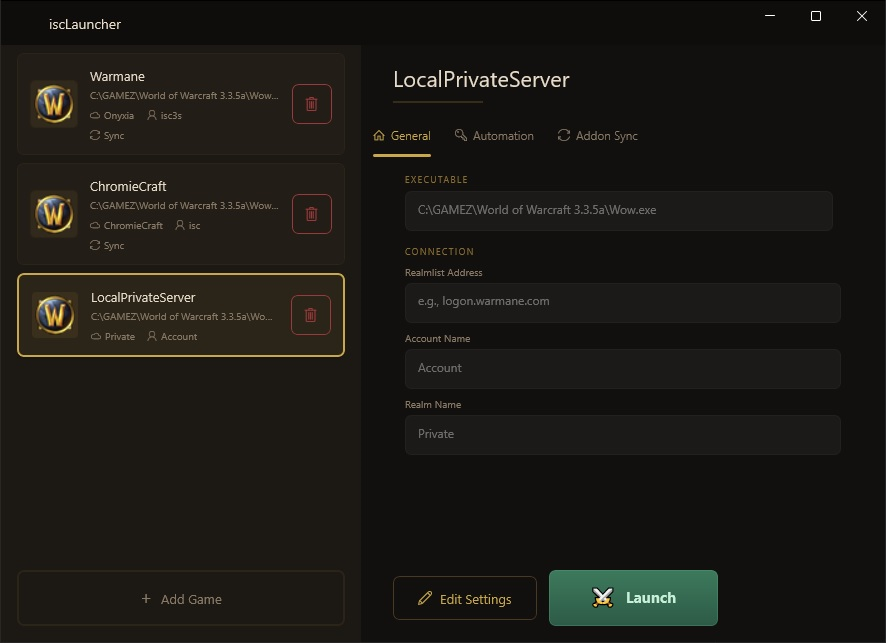
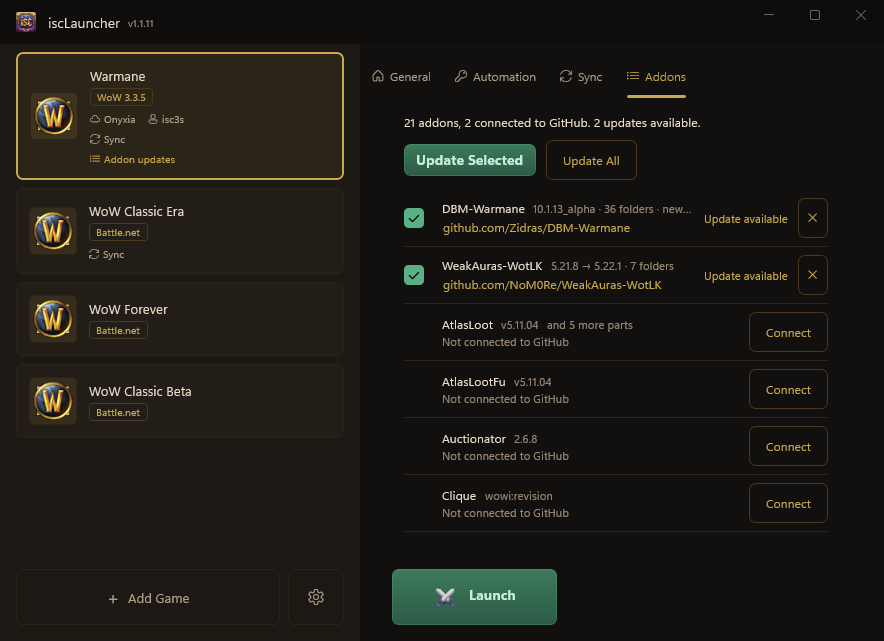
Shorten the README and update its screenshot

diff --git a/README.md b/README.md
@@ -10,88 +10,49 @@ A Windows launcher for World of Warcraft that keeps your addons and settings in 
 
 ## What it does
 
-**Private servers**
-- Keeps a library of WoW installs, each with its own server address, account and realm.
-- Writes `realmlist.wtf` and `WTF\Config.wtf` before every launch, so you never edit them by hand.
-- Logs you in: your password is stored in Windows Credential Manager and typed into the login screen once the game is ready. If typing fails, it's copied to the clipboard instead and cleared again after 30 seconds.
+- **Private servers:** sets the realmlist and realm before every launch, and logs you in with a password kept in Windows Credential Manager.
+- **Official installs:** add any version (Classic Era, beta, ...) and open it in Battle.net, where you press Play.
+- **Sync between PCs:** push your addons and settings from one PC, pull them on another, through a private GitHub repo.
+- **Update addons** that are on GitHub, and see every addon you have installed.
+- **Copy addons** between games, or give your other characters the same addon setup as one character.
 
-**Official Blizzard installs**
-- Add any version under your `World of Warcraft` folder (Classic Era, beta, ...) by picking its exe.
-- **Open in Battle.net** takes you to the game in Blizzard's launcher, where you press Play. Battle.net handles login, so there's no password to store. (Battle.net offers no way for another app to press Play.)
-
-**Addons and settings**
-- **Sync between PCs** through a private GitHub repo: push from one PC, pull on another.
-- **Copy Addons** from one game in your library to another, optionally with their settings.
-- **Copy Character Setup** gives other characters, in any game, the same enabled addons and per-character addon data as one character.
-- **See every installed addon** and update the ones that are on GitHub, then push to send the update to your other PCs.
-- Every change is previewed first, lets you pick what to apply, and backs up anything it replaces.
+Every change is previewed first, lets you pick what to apply, and backs up anything it replaces.
 
 ## Install
 
-1. Download the `.zip` from the [latest release](https://github.com/iiisc/iscLauncher/releases/latest).
-2. Extract it anywhere and run `iscLauncher.exe`. Nothing else needs installing.
+Download the `.zip` from the [latest release](https://github.com/iiisc/iscLauncher/releases/latest), extract it anywhere and run `iscLauncher.exe`. It needs 64-bit Windows 10 1809 or later, and nothing else.
 
-Requires 64-bit Windows 10 version 1809 or later. If SmartScreen warns on first launch, choose **More info → Run anyway**. To find the app from the Start menu, use **Options → Add to Start Menu**.
-
-The app checks for a new version when it starts. When one is ready, a dot appears on the ⚙ Options button, where you can see what changed and install it. Downloads are checked against GitHub's checksum before anything is replaced.
+If SmartScreen warns on first launch, choose **More info → Run anyway**. **Options → Add to Start Menu** makes it easy to find again. When a new version is out, a dot appears on the ⚙ Options button, where you can install it.
 
 ## Getting started
 
-1. Click **+ Add Game**. Official versions on this PC are listed under **Found on this PC**, one click each; otherwise pick the game's `.exe`.
-   - **Private server:** fill in the realmlist address, account and realm, and set your password under **Automation**.
-   - **Official install:** pick the exe inside the version folder, for example `World of Warcraft\_classic_era_\WowClassic.exe`. The app recognises it and hides the settings that don't apply.
-2. Click **Save Changes**, then **Launch**.
+1. Click **+ Add Game**. Official versions on this PC are listed under **Found on this PC**; otherwise pick the game's `.exe`.
+2. For a private server, fill in the realmlist, account and realm, and set your password under **Automation**.
+3. Click **Save Changes**, then **Launch**.
 
 If the password gets typed before the login screen is ready, raise **Startup Delay** under **Automation**.
 
-To remove a game from the library, right-click its card (or select it and press Delete).
+## Syncing between PCs
 
-## Syncing addons between PCs
+Each game syncs with its own private repo on GitHub. Don't have a GitHub account? You can make a free one while you set up.
 
-Syncing goes through a private repo on your GitHub account, one per game. Git comes with the app, so there's nothing else to install.
+1. Open the game's **Sync** tab and click **Set Up Sync**. The app walks you through signing in, making the repo and giving iscLauncher access to it.
+2. Click **Push** to upload this PC's addons and settings.
+3. On your other PC, add the same game, click **Set Up Sync**, pick the repo and click **Pull**.
 
-1. Open the game's **Sync** tab and click **Set Up Sync**. The first time, you sign in with GitHub: the app shows a short code to enter on github.com, so your GitHub password never goes through the app.
-   - New to GitHub? Create a free account from GitHub's sign-in page when the app sends you there. If that takes a while, the app swaps in a new code once the old one runs out.
-   - iscLauncher can only use the repos you give it, so your other projects on GitHub stay out of its reach. If you haven't given it one yet, or you click **Set Up a New Repo Instead**, the dialog walks you through making a private repo on GitHub and giving it to iscLauncher, then picks it once it shows up.
-2. **Push** uploads this PC's addons (`Interface\AddOns`) and settings (`WTF\Account`).
-3. On another PC, add the same game, click **Set Up Sync**, pick the repo from the list, and **Pull**.
-4. **Rollback** restores an earlier push for every PC. It adds a new commit, so nothing in the history is lost.
-
-You mostly don't need the buttons: when you launch a synced game and another PC has pushed since this one last synced, the app offers to pull first. When the game closes, it offers to push what changed while you played. A game with changes waiting shows **New from another PC** in the list.
-
-Before anything is applied you see each addon as new, changed or removed, and can untick what you don't want. You also choose whether to include addon settings (shared by every character) and character settings (layouts, macros, keybinds and per-character addon data). If the repo has a push this PC hasn't pulled yet, Push warns you before overwriting it.
-
-## Sharing addons between games
-
-**Copy Addons** copies addons from the open game into another game in your library, for example from Classic Era to a new beta install. Addons built for a different game version are flagged before you copy.
-
-**Copy Character Setup** takes one character as the template and gives the characters you pick, in any game, the same enabled addons (`AddOns.txt`) and per-character addon data. Keybinds, macros and UI layouts are already shared by the whole account, so they aren't part of this.
-
-WoW saves addon settings when you log out, which would undo changes made while it's running. If the game is open, the app asks before Pull, Rollback, Copy Addons or Copy Character Setup.
+After that you rarely need the buttons. The app offers to pull when you launch a game another PC has pushed to, and to push when the game closes. **Rollback** puts every PC back to an earlier push.
 
 ## Updating addons
 
-The **Addons** tab lists every addon in the game and whether it's connected to its project on GitHub. When you open it, it checks each connected project for a newer version, so you can see which have updates. Then choose **Update All**, or tick the ones you want and choose **Update Selected**; what they replace is backed up first. For a synced game, the app then offers to push, so your other PCs get the update when they pull.
+The **Addons** tab lists every addon and checks the ones on GitHub for updates. Tick the ones you want and click **Update Selected**, or **Update All**. Games with updates waiting show **Addon updates** in the list.
 
-When the app starts, it also checks quietly, and a game with updates waiting shows **Addon updates** in the list.
+Addons that name their GitHub project in their `.toc` are connected by themselves. For the others, click **Connect** and pick a match from GitHub, or paste a link.
 
-Addons that name their GitHub project in their `.toc` file are connected by themselves. For others, click **Connect** on the addon: the app searches GitHub and lists what it finds, or you can paste a link. Searches turn up versions for every client, so pick the one for your game version; the app checks that it really has the addon before connecting it. A project can hold several addons; the ones you have are connected together, and the ones you don't are left out. The ✕ on a project disconnects it for good, even if an addon's `.toc` names it.
+## Your data
 
-A project's newest release is used when it has one with a zip; otherwise its newest code is. It's only downloaded when it has changed, or when your copy of its addons has, for example after a pull.
+Everything lives in `%APPDATA%\IscLauncher` (**Options → Open Folder**): your library, backups (the last 3 per game, restored with **Sync → Restore a Backup**) and a log. Passwords and your GitHub sign-in are in Windows Credential Manager under `iscLauncher_...`.
 
-## Backups and data
-
-Everything the app stores lives in `%APPDATA%\IscLauncher`, apart from passwords:
-
-| What | Where |
-|------|-------|
-| Your game library | `games.json` |
-| Backups made before every pull, copy, rollback or update | `Backups` (the last 3 per game; put one back with **Sync → Restore a Backup**) |
-| Local copies of your sync repos | `SyncCache` |
-| A log of syncs, launches and errors, for when something goes wrong | `log.txt` (**Options → Open Log**) |
-| Game passwords and your GitHub sign-in | Windows Credential Manager, entries named `iscLauncher_...` |
-
-**Options → Open Folder** takes you there.
+iscLauncher only talks to GitHub, and only to the repos you give it: it can't see your other projects, or change any repo's settings. Change its repos under **Options → Choose which repos it can use**. Game passwords never leave your PC.
 
 ## Troubleshooting
 
@@ -99,23 +60,12 @@ Everything the app stores lives in `%APPDATA%\IscLauncher`, apart from passwords
 |---------|-----|
 | Password typed too early, or not at all | Raise **Startup Delay** under **Automation** |
 | Login fails for a game that runs as administrator | Run iscLauncher as administrator too |
-| "Git wasn't found" | Download the latest release, which includes Git, or install [Git for Windows](https://git-scm.com/download/win) |
-| Push or pull fails | Check the repo URL, that you're signed in to GitHub under **Options**, and that the repo is one of those you've given iscLauncher (**Options → Choose which repos it can use**) |
-| "GitHub turned down this PC's sign-in" | Sign in again under **Options**. GitHub drops a sign-in when you revoke it, or when you've signed in on more than ten PCs since |
+| Push or pull fails | Check that you're signed in under **Options**, and that the repo is one you've given iscLauncher |
+| "GitHub turned down this PC's sign-in" | Sign in again under **Options** |
 
 ## Uninstall
 
-1. Delete the folder you extracted iscLauncher into, `%APPDATA%\IscLauncher`, and the Start menu shortcut if you added one.
-2. In **Credential Manager → Windows Credentials**, remove the entries starting with `iscLauncher_`.
-3. On GitHub, uninstall iscLauncher under **Settings → Applications → Installed GitHub Apps**.
-
-## Privacy
-
-iscLauncher only talks to GitHub: to check for new versions, to sign you in, to push and pull your sync repos, and to download addon updates. Game passwords never leave your PC.
-
-Signing in lets the app read and write the files of the repos you've given it, and nothing else: GitHub refuses it any other repo, and it can't change a repo's settings or delete one. You choose those repos on GitHub, and can change them any time under **Options → Choose which repos it can use**. To take the access back, sign out under **Options**, or uninstall iscLauncher on GitHub under **Settings → Applications → Installed GitHub Apps**.
-
-Versions before the switch to these per-repo permissions asked GitHub for access to every repo. If you used one, the app asks you to sign in again; then revoke the old access under **Settings → Applications → Authorized OAuth Apps → iscLauncher**.
+Delete the app's folder, `%APPDATA%\IscLauncher` and the Start menu shortcut if you added one, remove the `iscLauncher_` entries from **Credential Manager → Windows Credentials**, and uninstall iscLauncher on GitHub under **Settings → Applications → Installed GitHub Apps**.
 
 ## Building from source
 
@@ -125,7 +75,7 @@ Requires the .NET 10 SDK.
 dotnet build -c Debug -p:Platform=x64
 ```
 
-To release, run the **Release** workflow from the Actions tab. It publishes the next patch version; to bump the minor or major version instead, push a tag such as `v1.2.0`.
+To release, run the **Release** workflow from the Actions tab. It publishes the next patch version; to bump the minor or major version, push a tag such as `v1.2.0`.
 
 ## License
 
